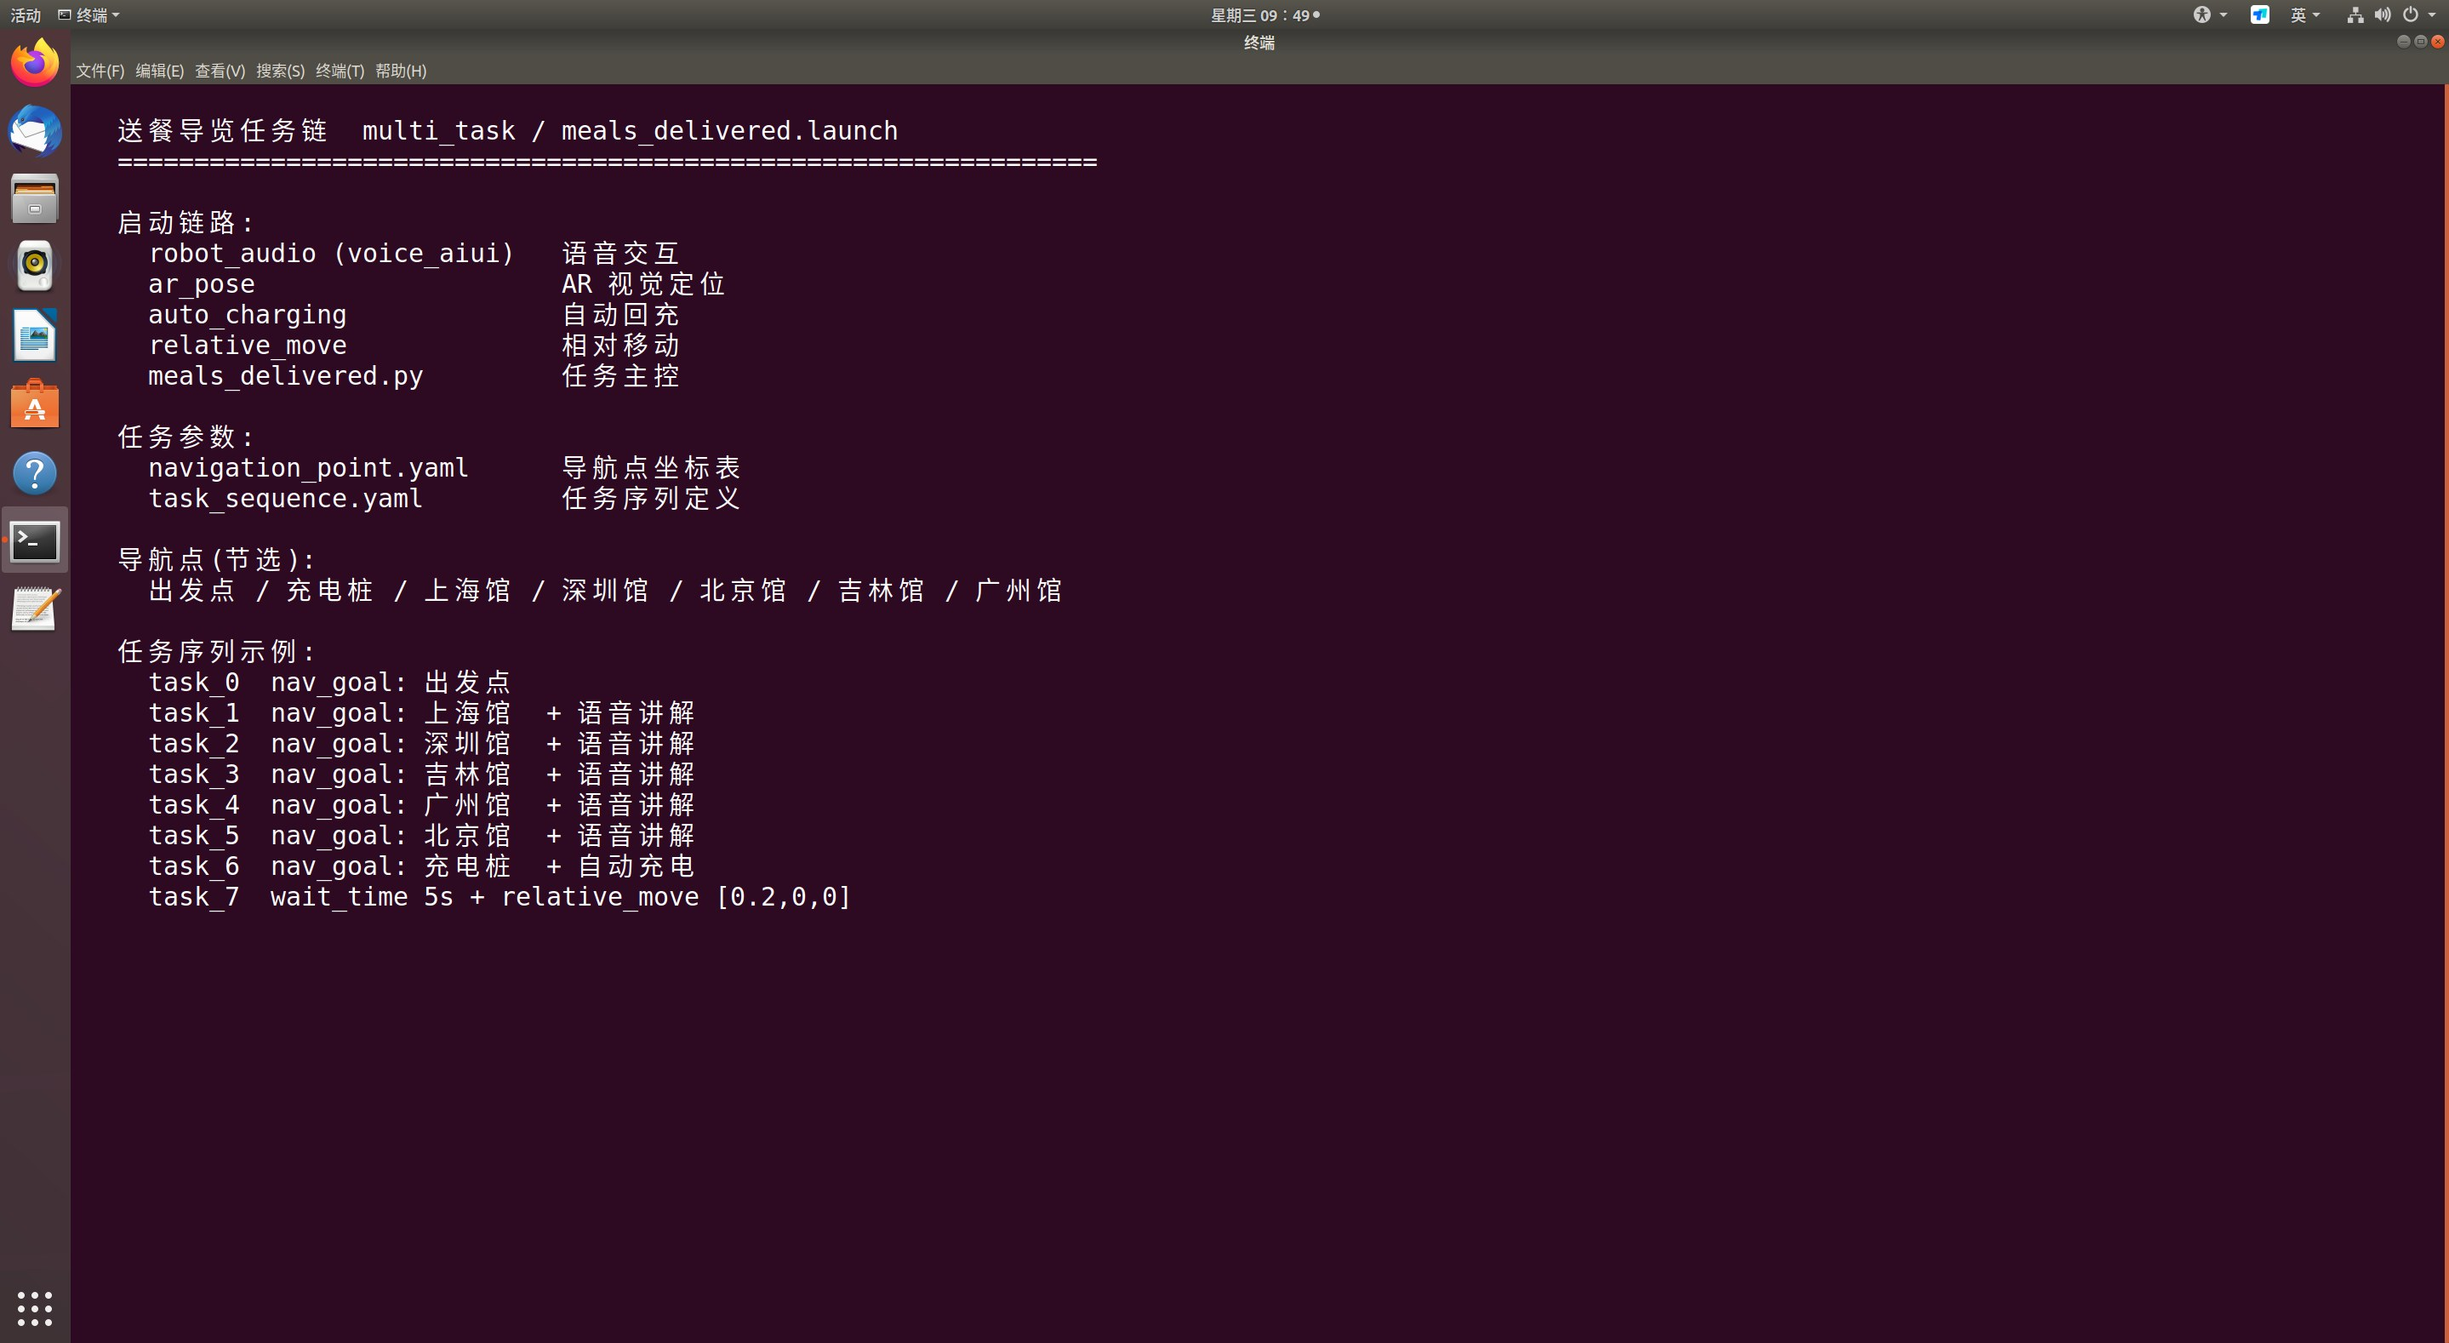
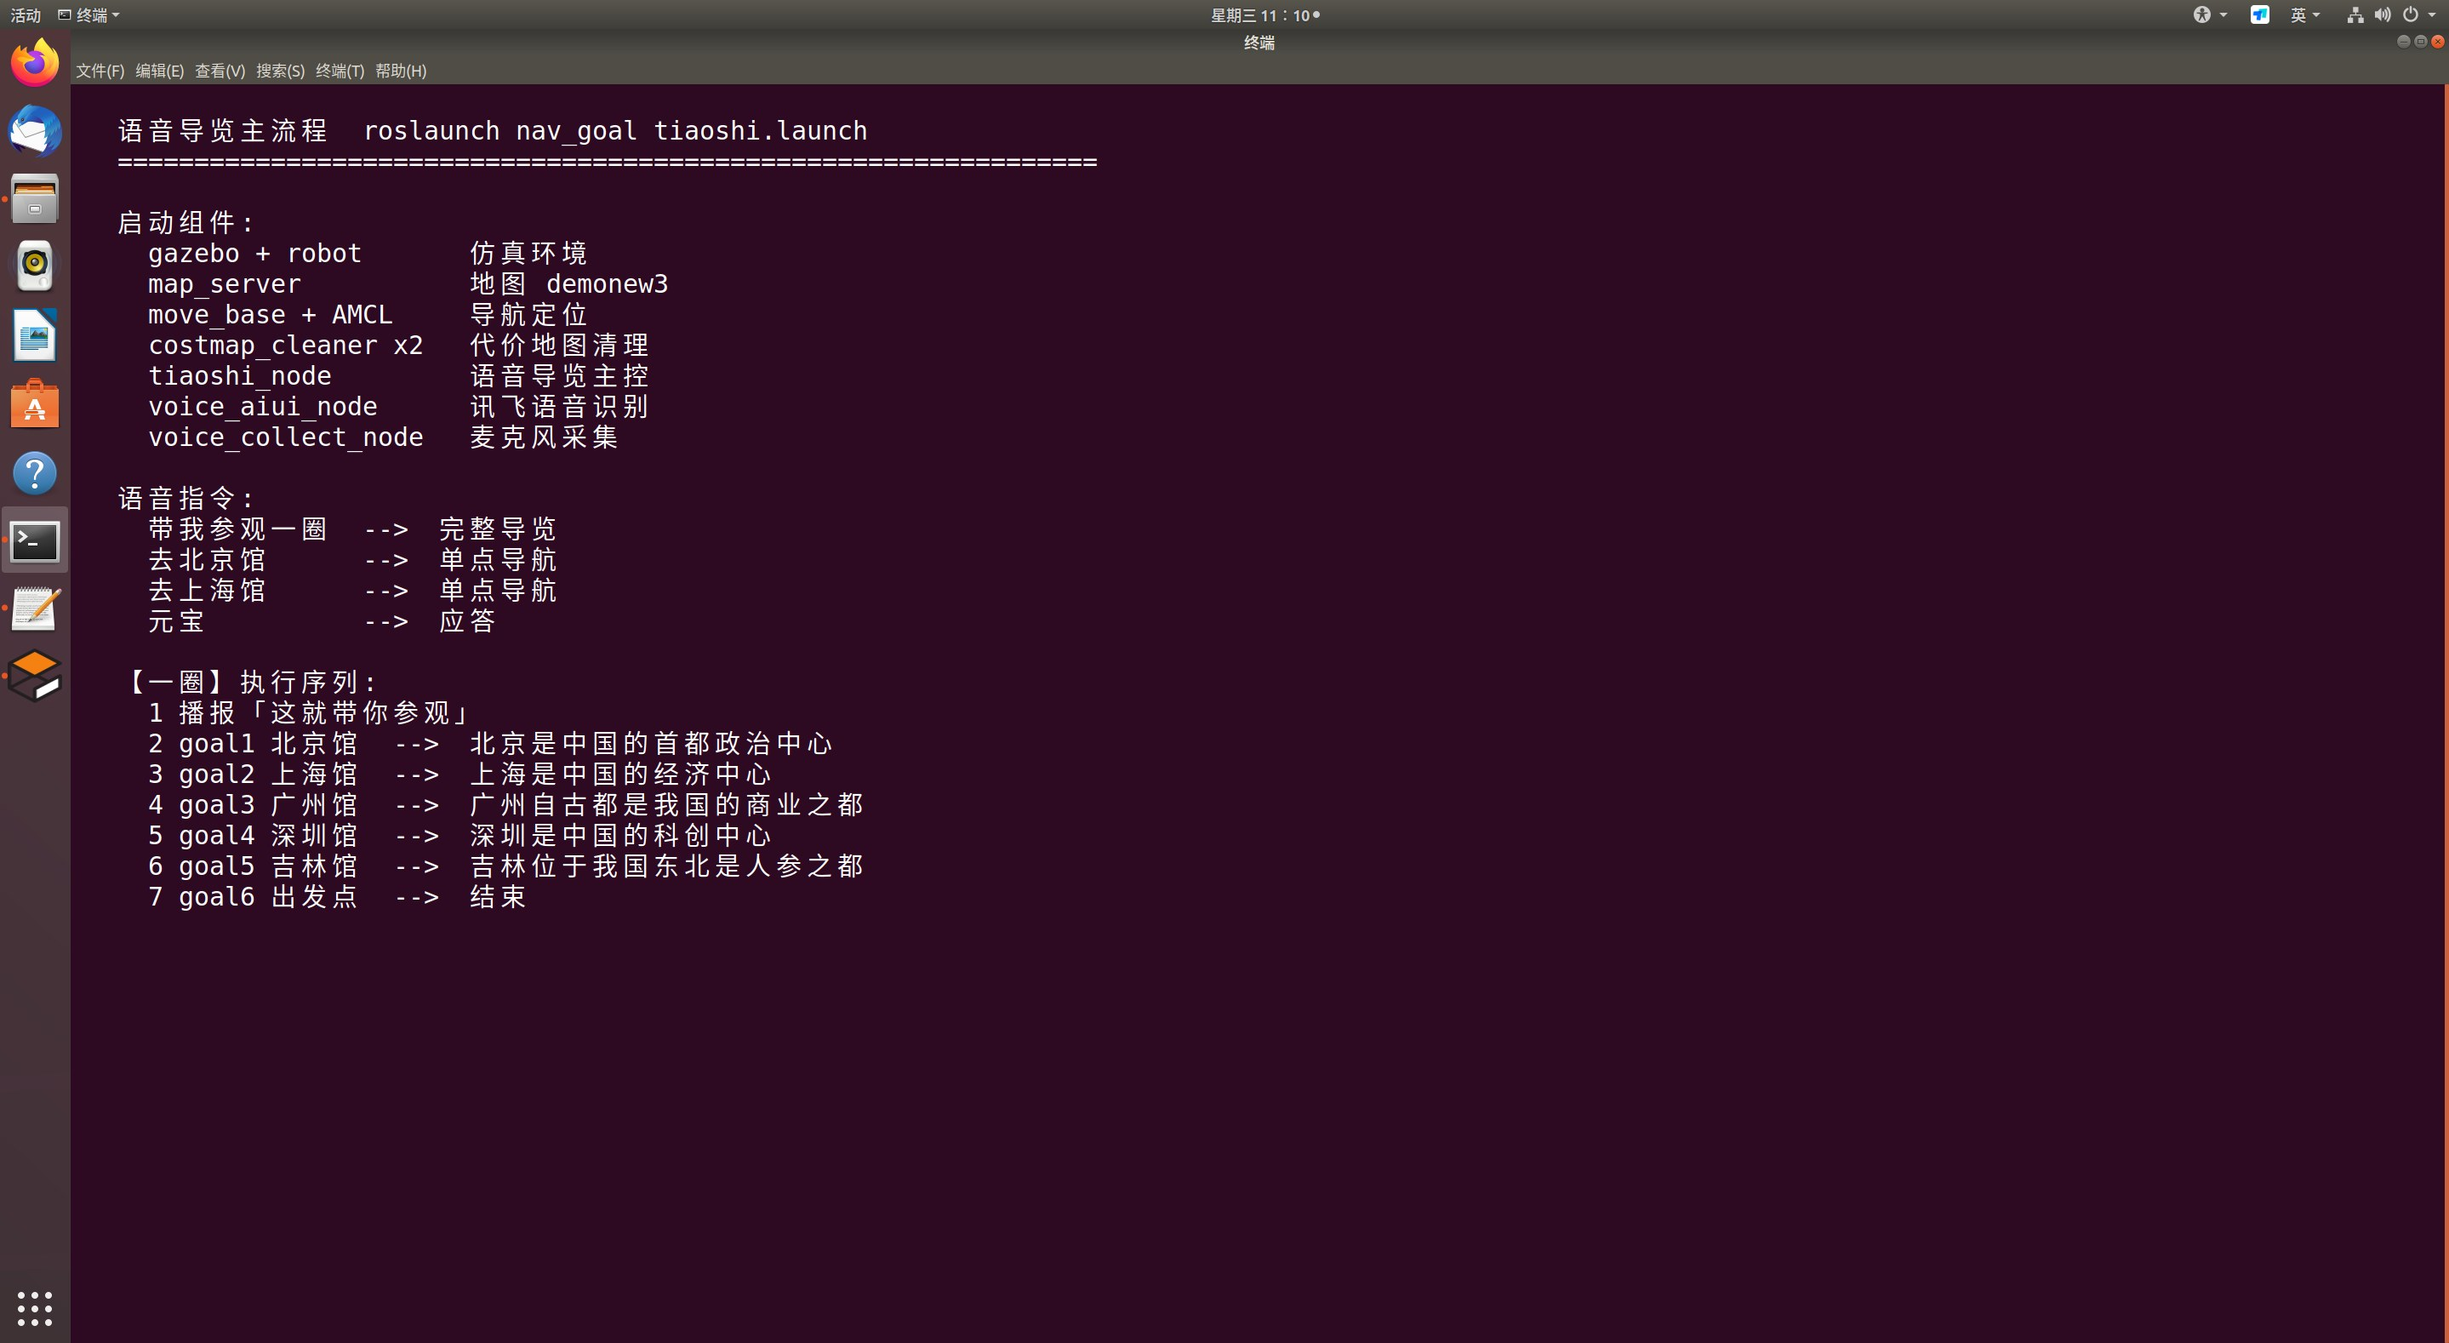
docs: 修正使用说明为真实的语音触发导览流程
- 主入口实为 roslaunch nav_goal tiaoshi.launch（非 multi_task）
- 触发方式：语音说「带我参观一圈」（tiaoshi.cpp 关键词匹配 一圈）
- 补充语音指令集：一圈/北京/上海/广州/深圳/吉林/元宝
- 补充 tiaoshi.launch 完整组件表（9 个节点）
- 补充一圈导览的阻塞导航 + 播报序列
- 架构图加入 nav_goal 主控、jie_ware 清理器、语音服务双向连接
- 工作流程改为 16 步语音触发全流程
- 更新任务链截图为语音导览流程
- 标注 tiaoshi.launch 第 40 行多余字符 s 的笔误

diff --git a/README.md b/README.md
@@ -12,7 +12,12 @@
 
 工程覆盖从底层底盘驱动到高层任务调度的完整技术栈：26 个 ROS 功能包组成了「感知 → 定位 → 规划 → 控制 → 任务」的完整闭环，既支持实车部署，也提供 Gazebo 仿真版本，所有核心模块均提供实车版与仿真版两套 launch 文件。
 
-**核心场景**：展馆导览送餐机器人——机器人依次导航至上海馆、深圳馆、吉林馆、广州馆、北京馆等展位，到达后语音讲解展馆介绍，任务结束后返回充电桩自动充电。
+**核心场景**：展馆语音导览机器人——一条命令启动仿真，对着麦克风说「**带我参观一圈**」，机器人即自动依次导航至北京馆、上海馆、广州馆、深圳馆、吉林馆，每到一站播放该馆讲解语音，最后返回出发点。
+
+```bash
+roslaunch nav_goal tiaoshi.launch
+# 然后对着麦克风说："带我参观一圈"
+```
 
 ![系统概览](docs/images/01-system-overview.jpg)
 
@@ -20,6 +25,7 @@
 
 ## 2. 核心功能
 
+* **语音触发全流程导览**：一句「带我参观一圈」即可触发完整的多点导航 + 讲解流程，无需手动发目标点。也支持「去北京馆」等单点指令。
 * **三套 SLAM 方案可选**：集成 GMapping、Cartographer、RTabMap 三种建图算法，通过 launch 参数一键切换，实车与仿真版本分离。
 * **双导航栈配置**：实车使用 TEB 局部规划器（动态避障平滑），仿真使用 DWA 局部规划器（轻量稳定），全局规划器分别为 navfn 与 global_planner，参数按实车/仿真分目录管理。
 * **全向轮里程计模型**：AMCL 采用 `omni-corrected` 里程计模型，专为麦克纳姆轮全向底盘调优。
@@ -49,6 +55,7 @@
 ```mermaid
 graph TD
     subgraph "任务编排层 Task Layer"
+        NavGoal("nav_goal<br/>tiaoshi_node<br/>★ 语音导览主控")
         MultiTask("multi_task<br/>meals_delivered.py")
         Cruise("rei_robot_cruise<br/>多目标巡航")
     end
@@ -57,6 +64,7 @@ graph TD
         MoveBase("move_base<br/>全局: navfn/global_planner<br/>局部: TEB / DWA")
         AMCL("amcl<br/>omni-corrected")
         MapServer("map_server<br/>/map")
+        Cleaner("jie_ware<br/>costmap_cleaner")
     end
 
     subgraph "感知层 Perception Layer"
@@ -71,6 +79,7 @@ graph TD
         Audio("robot_audio<br/>讯飞 AIUI")
     end
 
+    NavGoal -- "MoveBaseGoal (Action)" --> MoveBase
     MultiTask -- "MoveBaseGoal (Action)" --> MoveBase
     Cruise -- "SetGoals (Srv)" --> MoveBase
     MapServer -- "/map" --> AMCL
@@ -82,6 +91,9 @@ graph TD
     Gazebo -- "/scan /odom /tf" --> AMCL
     MoveBase -- "/cmd_vel" --> RobotBase
     MoveBase -- "/cmd_vel" --> Gazebo
+    Cleaner -. "清理代价地图" .-> MoveBase
+    Audio -- "/voice_dictation 识别文本" --> NavGoal
+    NavGoal -- "/voice_tts 播报" --> Audio
     Audio <-.-> MultiTask
     ArPose -.-> MultiTask
 ```
@@ -237,15 +249,81 @@ roslaunch bobac3_navigation demo_nav_2d.launch \
 
 在 RViz 中使用 **2D Nav Goal** 工具发送目标点，机器人即自主规划并移动。
 
-#### 6.5. 运行导览任务
+#### 6.5. 运行导览任务（语音触发）
+
+**这是本项目的主演示流程**，一条命令启动完整导览系统：
 
 ```bash
-roslaunch multi_task meals_delivered.launch
+roslaunch nav_goal tiaoshi.launch
 ```
 
 ![送餐导览任务链](docs/images/07-task-chain.jpg)
 
-该命令同时启动语音交互（AIUI）、AR 定位、自动回充、相对移动四个子系统，并运行 `meals_delivered.py` 主控脚本，按 `task_sequence.yaml` 定义的序列依次执行导航 → 语音讲解 → 返回充电。
+`tiaoshi.launch` 一次性拉起以下组件：
+
+| 组件 | 来源 | 作用 |
+|---|---|---|
+| Gazebo + 机器人 | `bobac3_description/gazebo.launch` | 仿真环境 |
+| map_server | `bobac3_navigation/map_server.launch` | 加载地图 `demonew3` |
+| move_base | `bobac3_navigation/move_base_sim.launch` | 导航（DWA） |
+| AMCL | `bobac3_navigation/amcl_sim.launch` | 定位 |
+| RViz | `bobac3_navigation/rviz/robot_navigation.rviz` | 可视化 |
+| **costmap_cleaner** ×2 | `jie_ware` | 代价地图清理 + 速度归零清理 |
+| **tiaoshi_node** | `nav_goal` | 语音触发 + 导航点调度主控 |
+| **voice_aiui_node** | `robot_audio` | 讯飞语音识别 |
+| **voice_collect_node** | `robot_audio` | 麦克风音频采集 |
+
+启动完成后，**对着麦克风说一句话即可触发任务**。程序在 `tiaoshi.cpp` 主循环中持续采集语音、转文字、做关键词匹配：
+
+| 你说的话 | 关键词匹配 | 机器人行为 |
+|---|---|---|
+| 「**带我参观一圈**」 | `一圈` | **启动完整导览流程**（见下方） |
+| 「元宝」 | `元宝` | 播报「什么事呀.wav」 |
+| 「去北京馆」 | `北京` | 单独导航到北京馆 + 讲解 |
+| 「去上海馆」 | `上海` | 单独导航到上海馆 + 讲解 |
+| 「去广州馆」 | `广州` | 单独导航到广州馆 + 讲解 |
+| 「去深圳馆」 | `深圳` | 单独导航到深圳馆 + 讲解 |
+| 「去吉林馆」 | `吉林` | 单独导航到吉林馆 + 讲解 |
+
+**「一圈」导览流程**（`tiaoshi.cpp:178`）：
+
+```
+语音"带我参观一圈"
+  → 播报「这就带你参观.wav」
+  → goal1 北京馆  → 播报「北京是中国的首都政治中心.wav」
+  → goal2 上海馆  → 播报「上海是中国的经济中心.wav」
+  → goal3 广州馆  → 播报「广州自古都是我国的商业之都.wav」
+  → goal4 深圳馆  → 播报「深圳是中国的科创中心.wav」
+  → goal5 吉林馆  → 播报「吉林位于我国东北是人参之都.wav」
+  → goal6 返回出发点 → 任务结束
+```
+
+每个导航点之间是**阻塞等待**：`ac.sendGoal(goalN)` 后循环 `while(!SUCCEEDED)` 直到 `move_base` 返回成功，才播放该馆讲解语音，然后前往下一个点。语音文件位于 `nav_goal/voices/`（13 个 wav）。
+
+**导航点坐标**在 `nav_goal/config/params.yaml` 中定义（非 `multi_task` 的 yaml）：
+
+```yaml
+beijing_x: 2.520      beijing_y: 0.125
+shanghai_x: 1.046     shanghai_y: 2.110
+guangzhou_x: 2.526    guangzhou_y: 1.105
+shenzhen_x: 1.050     shenzhen_y: 1.123
+jilin_x: 2.5215       jilin_y: 2.1183
+charge_x: 0.592       charge_y: 1.937
+```
+
+> ⚠ 注意 `tiaoshi.launch` 第 40 行有一处**笔误**：`<node .../>` 后面多了一个孤立的字符 `s`。ROS launch 解析器通常容忍行尾多余文本，但严格模式下会告警，可自行删除。
+
+#### 6.6. 其他任务方式
+
+```bash
+# 送餐流程（Python 主控 + YAML 任务序列）
+roslaunch multi_task meals_delivered.launch
+
+# 多点导航（另一套 C++ 主控）
+roslaunch nav_goal nav.launch
+```
+
+> `nav.launch` 与 `tiaoshi.launch` 结构几乎相同，区别是主控节点换成 `nav_multigoal_pro_node`，默认地图为 `reicom`。`multi_task` 走的是 Python + YAML 配置化路线，`nav_goal` 走的是 C++ 硬编码路线。
 
 #### 6.6. 单模块测试
 
@@ -363,7 +441,32 @@ roslaunch rei_robot_cruise example.launch
   * `social_Improve_RRT_Connect.py`：社交感知版（避让人群密集区）。
   * `voice_Improve_RRT_Connect.py`：与语音联动的演示版。
 
-#### 7.9. 其他功能包
+#### 7.9. `src/nav_goal`: 语音导览主控模块
+
+* **职责**：**本项目的主演示入口**。用 C++ 实现语音触发 + 多点导航的完整导览逻辑。
+* **组件**：
+  * `src/tiaoshi.cpp`：导览主控节点（`tiaoshi_node`）。
+    * 调用 `robot_audio` 的 `/voice_collect`、`/voice_dictation` 服务做语音采集与识别
+    * 调用 `/voice_tts` 服务做 TTS，或用 `system("play xxx.wav")` 播放预录音频
+    * 用 `actionlib::SimpleActionClient<MoveBaseAction>` 连接 `move_base`
+    * 主循环中对识别文本做 `text.find()` 关键词匹配，分发到不同导航分支
+  * `src/tiaoshi(复件).cpp`：历史备份版本，逻辑基本相同
+  * `launch/tiaoshi.launch`：**一键导览启动文件**（Gazebo + 导航 + 语音 + RViz）
+  * `launch/nav.launch`：多点导航版本（`nav_multigoal_pro_node`，默认地图 `reicom`）
+  * `config/params.yaml`：**导航点坐标表**（北京/上海/广州/深圳/吉林馆 + 充电桩 + 出发点）
+  * `config/clearer_params.yaml`：速度归零清理器参数（`zero_vel_threshold: 8.0`、`cool_down: 6s`）
+  * `voices/`：**13 个预录讲解音频**（`去XX馆.wav`、`XX是中国的...wav`、`这就带你参观.wav`）
+* **语音指令集**：
+
+| 关键词 | 分支行为 |
+|---|---|
+| `一圈` | 完整导览：北京 → 上海 → 广州 → 深圳 → 吉林 → 返回起点，每站播放讲解 |
+| `北京` / `上海` / `广州` / `深圳` / `吉林` | 单点导航 + 该馆讲解 |
+| `元宝` | 应答「什么事呀」 |
+
+* **依赖**：`robot_audio`（语音服务）、`move_base`（导航 Action）、`jie_ware`（代价地图清理）、`bobac3_navigation`（地图与参数）。
+
+#### 7.10. 其他功能包
 
 | 包 | 职责 | 关键接口 |
 |---|---|---|
@@ -372,7 +475,6 @@ roslaunch rei_robot_cruise example.launch
 | `ar_pose` | AR 标签位姿估计 | msg: `ArPose`；8 个 launch 覆盖三种相机位 |
 | `face_rec` | 人脸检测识别 | srv: `/recognition_results` |
 | `deep_camera_scan_filter` | 深度相机转伪激光 + 滤波 | `scan_filter.launch` |
-| `nav_goal` | 目标点发布与 TF 监听 | `nav.launch` |
 | `jie_ware` | 代价地图清理 + 激光定位 | `costmap_cleaner` 节点 |
 | `my_planner` | 自研全局规划器 | nav_core 插件 |
 | `pid_lib` | PID 控制库 | 纯 C++ 库 |
@@ -387,20 +489,24 @@ roslaunch rei_robot_cruise example.launch
 
 ## 8. 系统工作流程详解
 
-以**展馆导览任务**（`meals_delivered.launch`）为例：
+以**语音导览任务**（`roslaunch nav_goal tiaoshi.launch`）为例：
 
-1. **启动与编排**：launch 依次启动 `robot_audio`（AIUI 语音）、`ar_pose`（AR 定位）、`auto_charging`（回充）、`relative_move`（相对移动）子系统，最后运行 `meals_delivered.py` 主控。
-2. **环境加载**：`bobac3_description/gazebo.launch` 启动 Gazebo，加载 `yes_my_world.world` 展馆场景并 spawn 机器人。
-3. **地图发布**：`map_server` 加载 `maps/demonew.yaml`，向全系统发布 `/map`。
+1. **启动与编排**：`tiaoshi.launch` 拉起 Gazebo、map_server、move_base、AMCL、RViz，以及 `tiaoshi_node`（主控）、`voice_aiui_node`（识别）、`voice_collect_node`（采集）和两个 `costmap_cleaner`。
+2. **环境加载**：Gazebo 加载 `yes_my_world.world` 展馆场景并 spawn 机器人模型。
+3. **地图发布**：`map_server` 加载 `maps/demonew3.yaml`，向全系统发布 `/map`。
 4. **传感器就绪**：Gazebo 插件发布 `/scan`、`/odom`、`/tf`；实车时 `rei_lidar_fuse` 将双雷达融合为 `/fuse_scan`。
 5. **机器人定位**：AMCL 融合地图与激光数据，收敛粒子群，发布 `map → odom` TF。
-6. **任务解析**：`meals_delivered.py` 读取 `task_sequence.yaml`，解析出任务队列（出发点 → 各展馆 → 充电桩）。
-7. **任务下发**：通过 actionlib 向 `move_base` 发送第一个 `MoveBaseGoal`（如「上海馆」坐标）。
-8. **全局规划**：move_base 基于 `/map` 用 navfn/global_planner 计算最优路径。
-9. **局部控制**：TEB（实车）或 DWA（仿真）局部规划器根据实时代价地图动态避障，输出 `/cmd_vel`。
-10. **物理执行**：底盘驱动（或 Gazebo 插件）解算麦轮速度，驱动机器人移动。
-11. **到达反馈**：move_base 返回 SUCCEEDED，`multi_task` 调用 `/robot_tts` 播报「上海是中国的经济中心」。
-12. **任务迭代**：按序列执行下一项，直到最后一个任务触发 `goto_charging` 自动回充，任务结束。
+6. **等待语音**：`tiaoshi_node` 进入主循环，`voice_collect_node` 持续采集麦克风音频，`voice_aiui_node` 转成文字。
+7. **关键词匹配**：`tiaoshi.cpp` 对识别文本做 `text.find()` 匹配。你说「带我参观**一圈**」→ 命中 `一圈` 分支。
+8. **语音应答**：`system("play .../这就带你参观.wav")` 播放应答语音。
+9. **首个目标**：通过 actionlib 向 `move_base` 发送 `goal1`（北京馆坐标，来自 `config/params.yaml`）。
+10. **全局规划**：move_base 基于 `/map` 用 global_planner（A\*）计算最优路径。
+11. **局部控制**：DWA 局部规划器根据实时代价地图动态避障，输出 `/cmd_vel`。
+12. **物理执行**：Gazebo 插件解算麦轮速度，驱动机器人移动。
+13. **到达讲解**：`move_base` 返回 SUCCEEDED，`tiaoshi_node` 播放「北京是中国的首都政治中心.wav」。
+14. **循环下一站**：依次执行 上海馆 → 广州馆 → 深圳馆 → 吉林馆，每站都是「导航 → 阻塞等待成功 → 播放讲解」。
+15. **返回起点**：发送 `goal6`（出发点），到达后 `task1=false`，导览流程结束，回到等待语音状态。
+16. **期间清理**：`costmap_cleaner` 持续清除代价地图中的幽灵障碍，`velocity_clearer` 在机器人静止超时后清理局部代价地图，避免误判。
 
 ---
 
